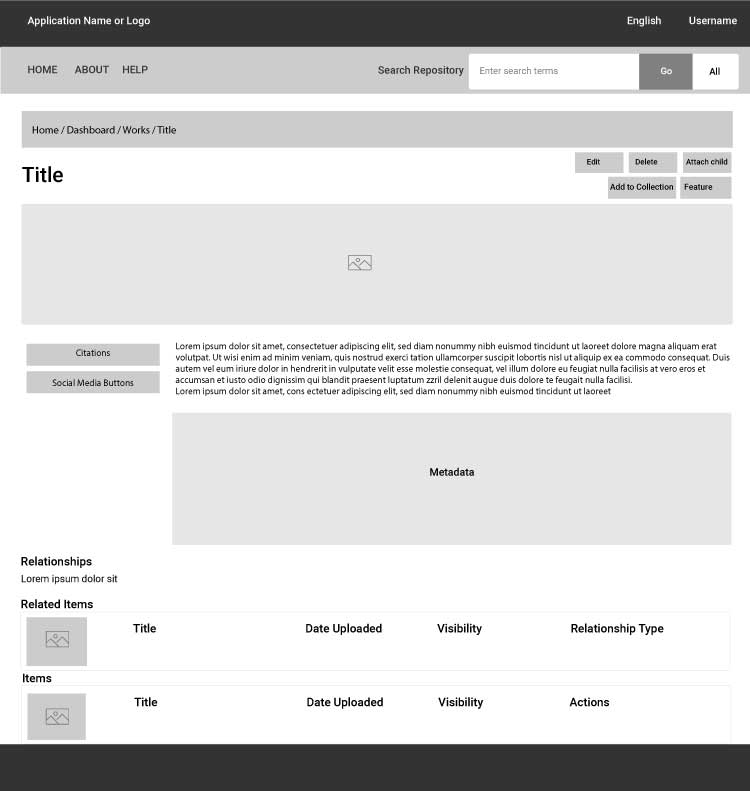
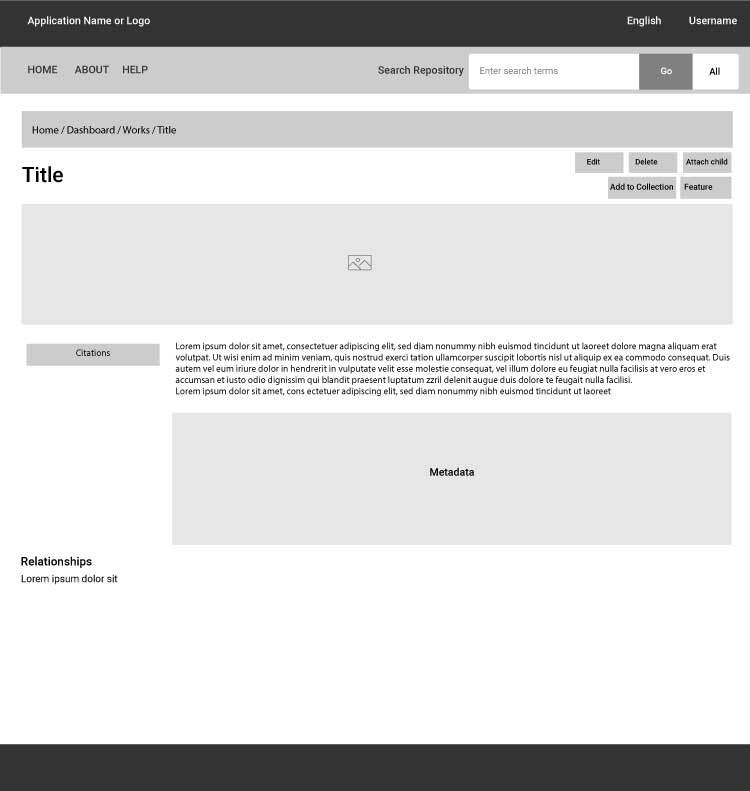
Fixes issues with tickets that were not deployed

diff --git a/app/assets/stylesheets/hyku.scss b/app/assets/stylesheets/hyku.scss
@@ -27,18 +27,18 @@
   // allows full width if tabs are turned off with feature flipper
   .home-content {
     display: flex;
-    // justify-content: space-between;
   }
   .home-tabs-left {
     min-width: 50%;
   }
-  .home-tabs-right, .home-tabs-left {
+  .home-tabs-right,
+  .home-tabs-left {
     margin: 0 10px;
   }
 }
 
 #banner.jumbotron {
-  background: image_url('Hyku_Commons_Logo.png') no-repeat;
+  background: image_url("Hyku_Commons_Logo.png") no-repeat;
   background-position: center;
   height: 220px;
   background-color: $gray-lighter;
@@ -62,7 +62,11 @@
   }
 
   .btn-sign-up {
-    @include button-variant($classic-white, $jumbotron-button-background-color, $jumbotron-button-background-color);
+    @include button-variant(
+      $classic-white,
+      $jumbotron-button-background-color,
+      $jumbotron-button-background-color
+    );
     border-radius: 3px;
     font-size: 0.7em;
     margin-top: 15px;
@@ -321,7 +325,6 @@ footer.navbar {
   padding: 0;
 }
 
-
 #users > .panel {
   .panel-body {
     padding-left: 0px;
@@ -352,7 +355,8 @@ footer.navbar {
   margin: 0 10px 10px 0;
 }
 
-a.restore-default-font, a.restore-default-color {
+a.restore-default-font,
+a.restore-default-color {
   margin-bottom: 2em;
 }
 
@@ -410,3 +414,12 @@ nav.navbar.navbar-default.navbar-static-top .container-fluid .row {
   }
 }
 
+//these styles modify the theming for the citations section
+div#collapse-citations {
+  text-align: left;
+}
+@media (min-width: 576px) {
+  .citations-button {
+    max-width: 300px;
+  }
+}
